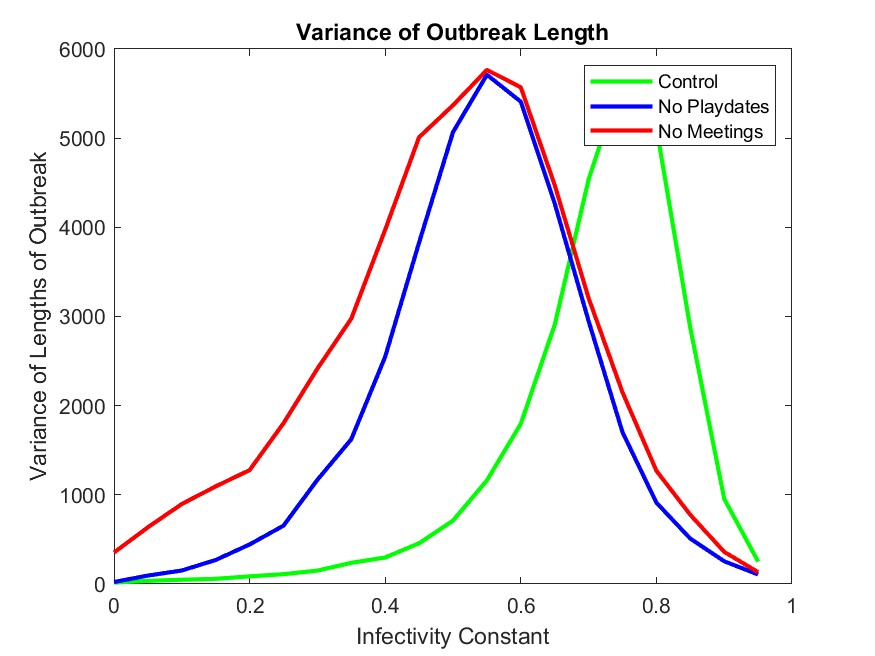
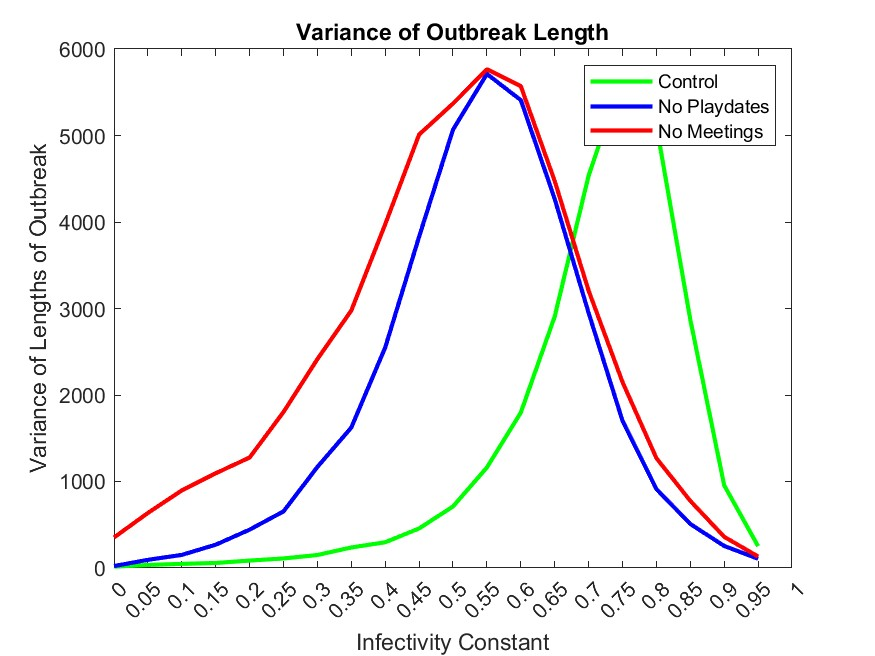
Added x-tick to graphs

diff --git a/generate_graphs.m b/generate_graphs.m
@@ -59,6 +59,8 @@ title('Mean Lengths of Outbreak')
 xlabel('Infectivity Constant')
 ylabel('Mean Outbreak Length (Days)')
 legend("Control", "No Playdates", "No Meetings")
+ticks = 0:0.05:1;
+xticks(ticks)
 
 saveas(1, "meanLengths.jpg")
 
@@ -69,6 +71,7 @@ title('Variance of Outbreak Length')
 xlabel('Infectivity Constant')
 ylabel('Variance of Lengths of Outbreak')
 legend("Control", "No Playdates", "No Meetings")
+xticks(ticks)
 
 saveas(2, "varLengths.jpg")
 
@@ -80,6 +83,7 @@ title('Mean Sizes of Outbreak')
 xlabel('Infectivity Constant')
 ylabel('Mean Outbreak Size (Proportion)')
 legend("Control", "No Playdates", "No Meetings")
+xticks(ticks)
 
 saveas(3, "meanSizes.jpg")
 
@@ -90,6 +94,7 @@ title('Variance of Outbreak Size')
 xlabel('Infectivity Constant')
 ylabel('Variance')
 legend("Control", "No Playdates", "No Meetings")
+xticks(ticks)
 
 saveas(4, "varSizes.jpg")
 
